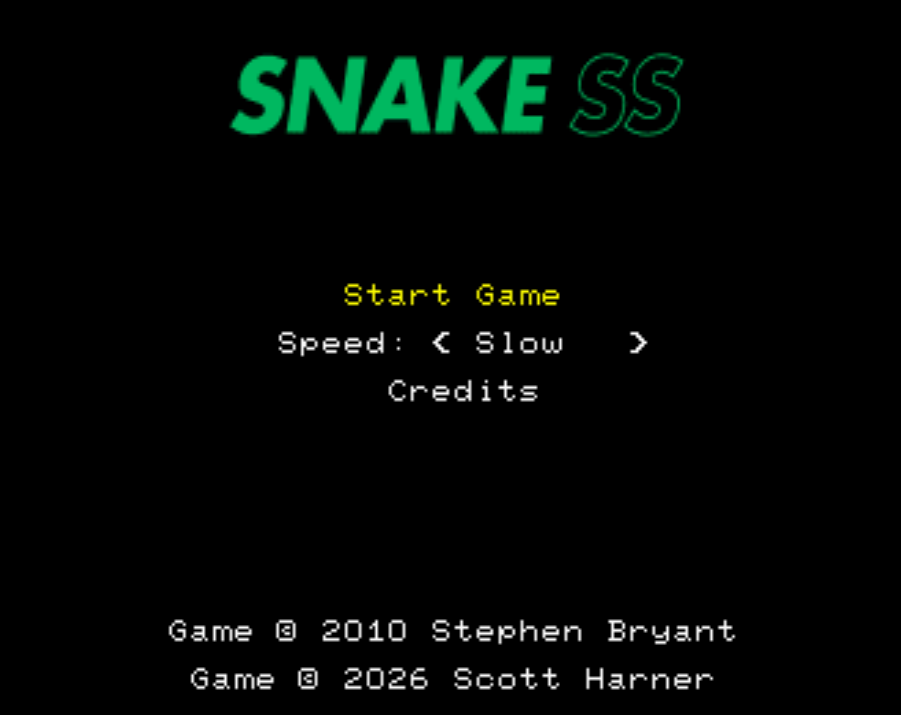
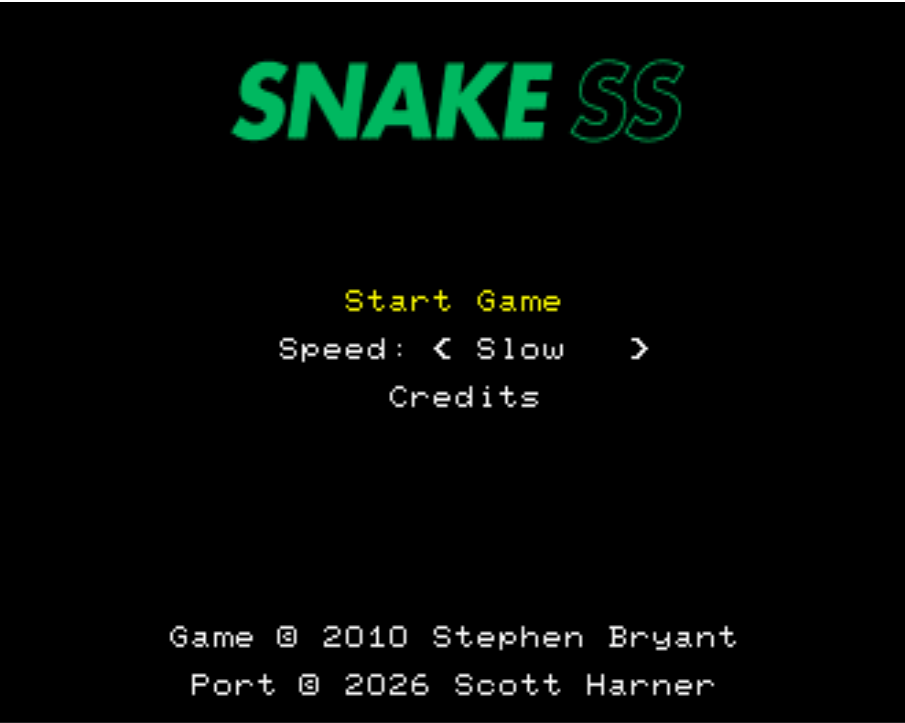
fix title text

diff --git a/platform/saturn/src/main.c b/platform/saturn/src/main.c
@@ -214,7 +214,7 @@ void platform_draw_title_screen(bool did_mode_change, option title_option)
     char copyright_string[30];
     sprintf(copyright_string, "Game %c 2010 Stephen Bryant", copyright);
     print_centered_text(26, copyright_string, JO_COLOR_INDEX_White);
-    sprintf(copyright_string, "Game %c 2026 Scott Harner", copyright);
+    sprintf(copyright_string, "Port %c 2026 Scott Harner", copyright);
     print_centered_text(28, copyright_string, JO_COLOR_INDEX_White);
 }
 
